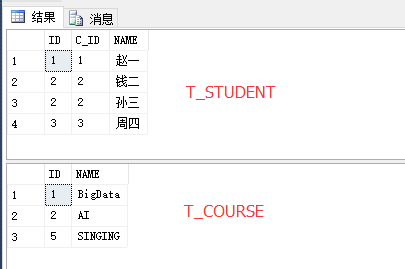
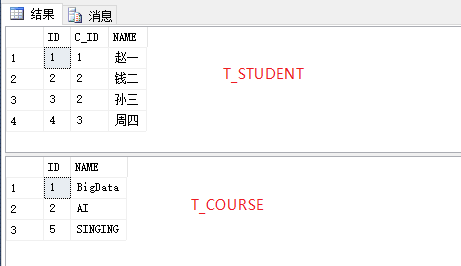
sqlserver 勘误

diff --git a/DB/SQLServer_Basic.md b/DB/SQLServer_Basic.md
@@ -358,7 +358,7 @@ CREATE TABLE T_COURSE ( ID INT, NAME VARCHAR(20) );
 
 INSERT INTO dbo.T_STUDENT
         ( ID, C_ID, NAME )
-VALUES  ( 1, 1, '赵一'),(2,2,'钱二'),(2,2,'孙三'),(3,3,'周四');
+VALUES  ( 1, 1, '赵一'),(2,2,'钱二'),(3,2,'孙三'),(4,3,'周四');
 
 INSERT INTO dbo.T_COURSE
         ( ID, NAME )
